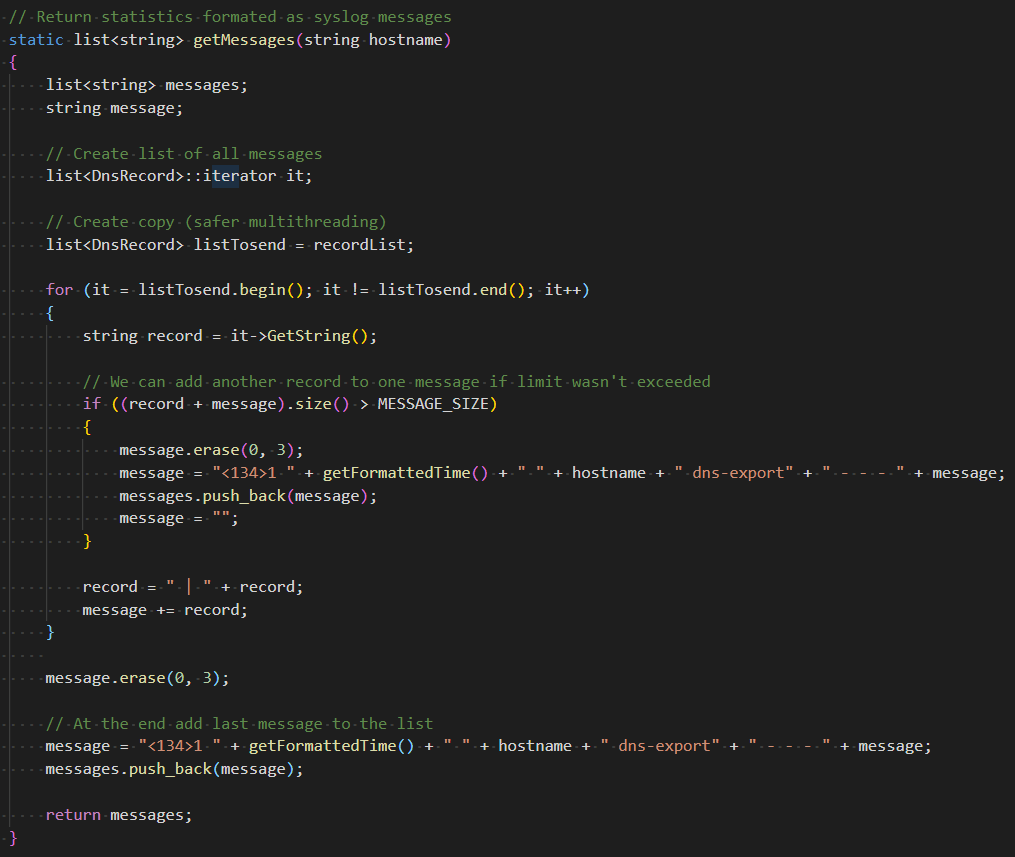
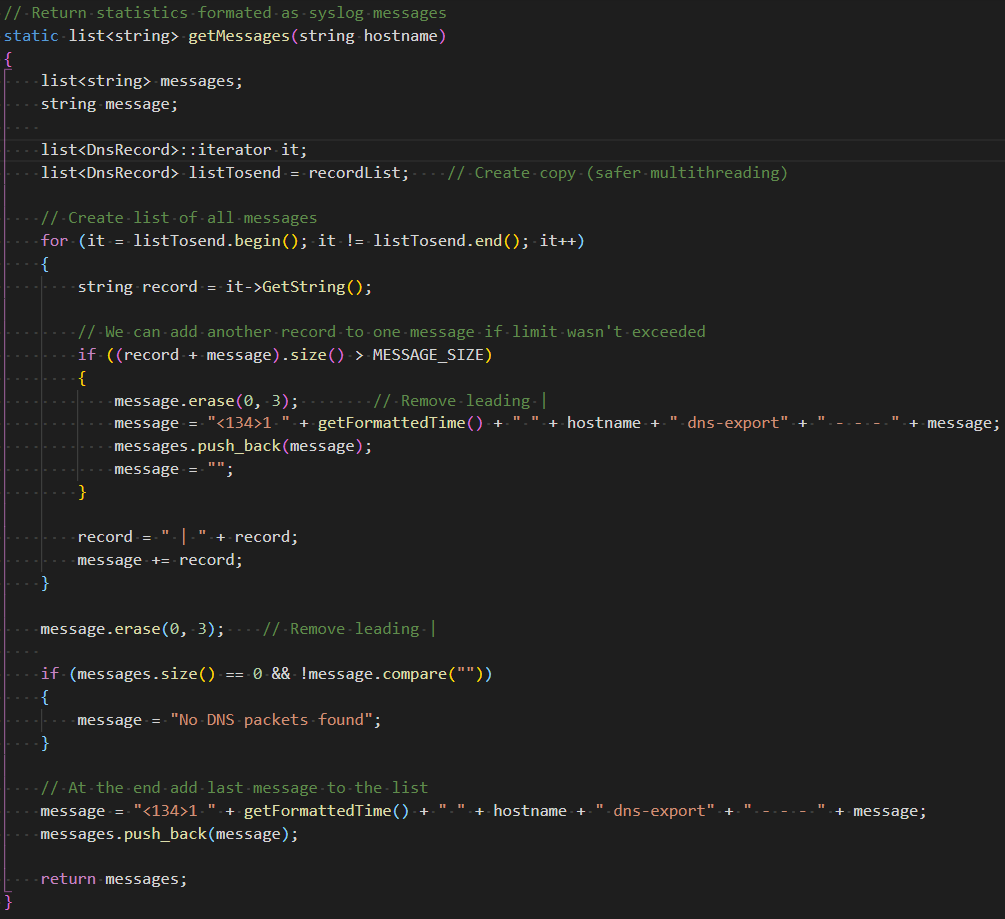
Added IPv6 syslog support

diff --git a/5.sem/isa/src/DnsExport.cpp b/5.sem/isa/src/DnsExport.cpp
@@ -7,6 +7,7 @@
 #include <string.h>     // bzero, bcopy
 #include <netdb.h>      // gethostbyname...
 #include <thread>       // Sending loop
+#include <arpa/inet.h>  // inet_pton
 
 #include "DnsPacket.cpp"
 #include "DnsRecord.cpp"
@@ -108,7 +109,11 @@ class DnsExport
     {
         if (sigNum == SIGUSR1)
         {
-            writeStats();
+            // Working just with interface sniffing
+            if (!parameters.file.compare(""))
+            {
+                writeStats();
+            }
         }
         else if (sigNum == SIGINT)
         {
@@ -270,26 +275,48 @@ class DnsExport
     // Send stats to syslog server (over UDP)
     static void sendStats()
     {
-        // Create socket
         int sock;
-        if ((sock = socket(AF_INET, SOCK_DGRAM, 0)) <= 0)
-        {
-            ERR_RET("Syslog - socket creating error!");
-        }
-
-        // Get network host entry
-        struct hostent* server;
-        if ((server = gethostbyname(parameters.syslogServer.c_str())) == NULL)
-        {
-            ERR_RET("Syslog - host not found!");
-        }
-
-        // Create necessary structures
         struct sockaddr_in serverAddress;
-        bzero((char*) &serverAddress, sizeof(serverAddress));
-        serverAddress.sin_family = AF_INET;
-        bcopy((char*)server->h_addr, (char*)&serverAddress.sin_addr.s_addr, server->h_length);
-        serverAddress.sin_port = htons(SYSLOG_PORT);        // Port is string, need conversion
+        struct sockaddr_in6 serverIPv6Address;
+        bool ipv6 = false;
+
+        // Check if IPv6 address
+        if (parameters.syslogServer.find_first_of(":") != string::npos)
+        {
+            ipv6 = true;
+
+            // Create socket
+            if ((sock = socket(AF_INET6, SOCK_DGRAM, 0)) <= 0)
+            {
+                ERR_RET("Syslog - IPv6 socket creating error! Code: " << errno);
+            }
+
+            serverIPv6Address.sin6_family = AF_INET6;
+            serverIPv6Address.sin6_port = htons(SYSLOG_PORT);
+            inet_pton(AF_INET6, parameters.syslogServer.c_str(),  &serverIPv6Address.sin6_addr);
+        }
+        // IPv4 or hostname
+        else
+        {
+            // Create socket
+            if ((sock = socket(AF_INET, SOCK_DGRAM, 0)) <= 0)
+            {
+                ERR_RET("Syslog -  IPv4 socket creating error! Code: " << errno);
+            }
+
+            // Get network host entry
+            struct hostent* server;
+            if ((server = gethostbyname(parameters.syslogServer.c_str())) == NULL)
+            {
+                ERR_RET("Syslog - host not found!");
+            }
+
+            // Initialize necessary structures
+            bzero((char*) &serverAddress, sizeof(serverAddress));
+            serverAddress.sin_family = AF_INET;
+            bcopy((char*)server->h_addr, (char*)&serverAddress.sin_addr.s_addr, server->h_length);
+            serverAddress.sin_port = htons(SYSLOG_PORT);        // Port is string, need conversion
+        }
 
         // Get hostname
         string hostname;
@@ -301,12 +328,27 @@ class DnsExport
         else
         {
             // Return value != signalize error. Try to get ip address
-            struct sockaddr_in ipAddress;
-            socklen_t length = sizeof(ipAddress);
-
-            if (!getsockname(sock, (struct sockaddr*)&ipAddress, &length))
+            if (ipv6)
             {
-                hostname = ipAddress.sin_addr.s_addr;
+                struct sockaddr_in6 ipAddress;
+                socklen_t length = sizeof(ipAddress);
+                char hostnameChar[INET_ADDRSTRLEN];
+
+                if (!getsockname(sock, (struct sockaddr*)&ipAddress, &length))
+                {
+                    inet_ntop(AF_INET6, ipAddress.sin6_addr.s6_addr, hostnameChar, length);
+                    hostname = hostnameChar;
+                }
+            }
+            else
+            {
+                struct sockaddr_in ipAddress;
+                socklen_t length = sizeof(ipAddress);
+
+                if (!getsockname(sock, (struct sockaddr*)&ipAddress, &length))
+                {
+                    hostname = ipAddress.sin_addr.s_addr;
+                }
             }
         }
 
@@ -316,11 +358,20 @@ class DnsExport
 
         for (it = messages.begin(); it != messages.end(); it++)
         {
-            LOGGING(*it);
-            // Send packet
-            if (sendto(sock, it->c_str(), it->length() + 1, 0, (struct sockaddr*)&serverAddress, sizeof(serverAddress)) < 0) // + 1 for '\0' character 
+            if (ipv6)
             {
-                ERR_RET("Syslog - sendto error!");
+                if (sendto (sock, it->c_str(), it->length() + 1, 0, (struct sockaddr*)&serverIPv6Address, sizeof(serverIPv6Address)) < 0)
+                {
+                    ERR_RET("Syslog - IPv6 sendto error! Code: " << errno);
+                }
+            }
+            else
+            {
+                // Send packet
+                if (sendto(sock, it->c_str(), it->length() + 1, 0, (struct sockaddr*)&serverAddress, sizeof(serverAddress)) < 0) // + 1 for '\0' character 
+                {
+                    ERR_RET("Syslog -  IPv4 sendto error! Code: " << errno);
+                }
             }
         }
 
@@ -332,13 +383,11 @@ class DnsExport
     {
         list<string> messages;
         string message;
+        
+        list<DnsRecord>::iterator it;
+        list<DnsRecord> listTosend = recordList;    // Create copy (safer multithreading)
 
         // Create list of all messages
-        list<DnsRecord>::iterator it;
-
-        // Create copy (safer multithreading)
-        list<DnsRecord> listTosend = recordList;
-
         for (it = listTosend.begin(); it != listTosend.end(); it++)
         {
             string record = it->GetString();
@@ -346,7 +395,7 @@ class DnsExport
             // We can add another record to one message if limit wasn't exceeded
             if ((record + message).size() > MESSAGE_SIZE)
             {
-                message.erase(0, 3);
+                message.erase(0, 3);        // Remove leading |
                 message = "<134>1 " + getFormattedTime() + " " + hostname + " dns-export" + " - - - " + message;
                 messages.push_back(message);
                 message = "";
@@ -355,8 +404,13 @@ class DnsExport
             record = " | " + record;
             message += record;
         }
+
+        message.erase(0, 3);    // Remove leading |
         
-        message.erase(0, 3);
+        if (messages.size() == 0 && !message.compare(""))
+        {
+            message = "No DNS packets found";
+        }
 
         // At the end add last message to the list
         message = "<134>1 " + getFormattedTime() + " " + hostname + " dns-export" + " - - - " + message;
